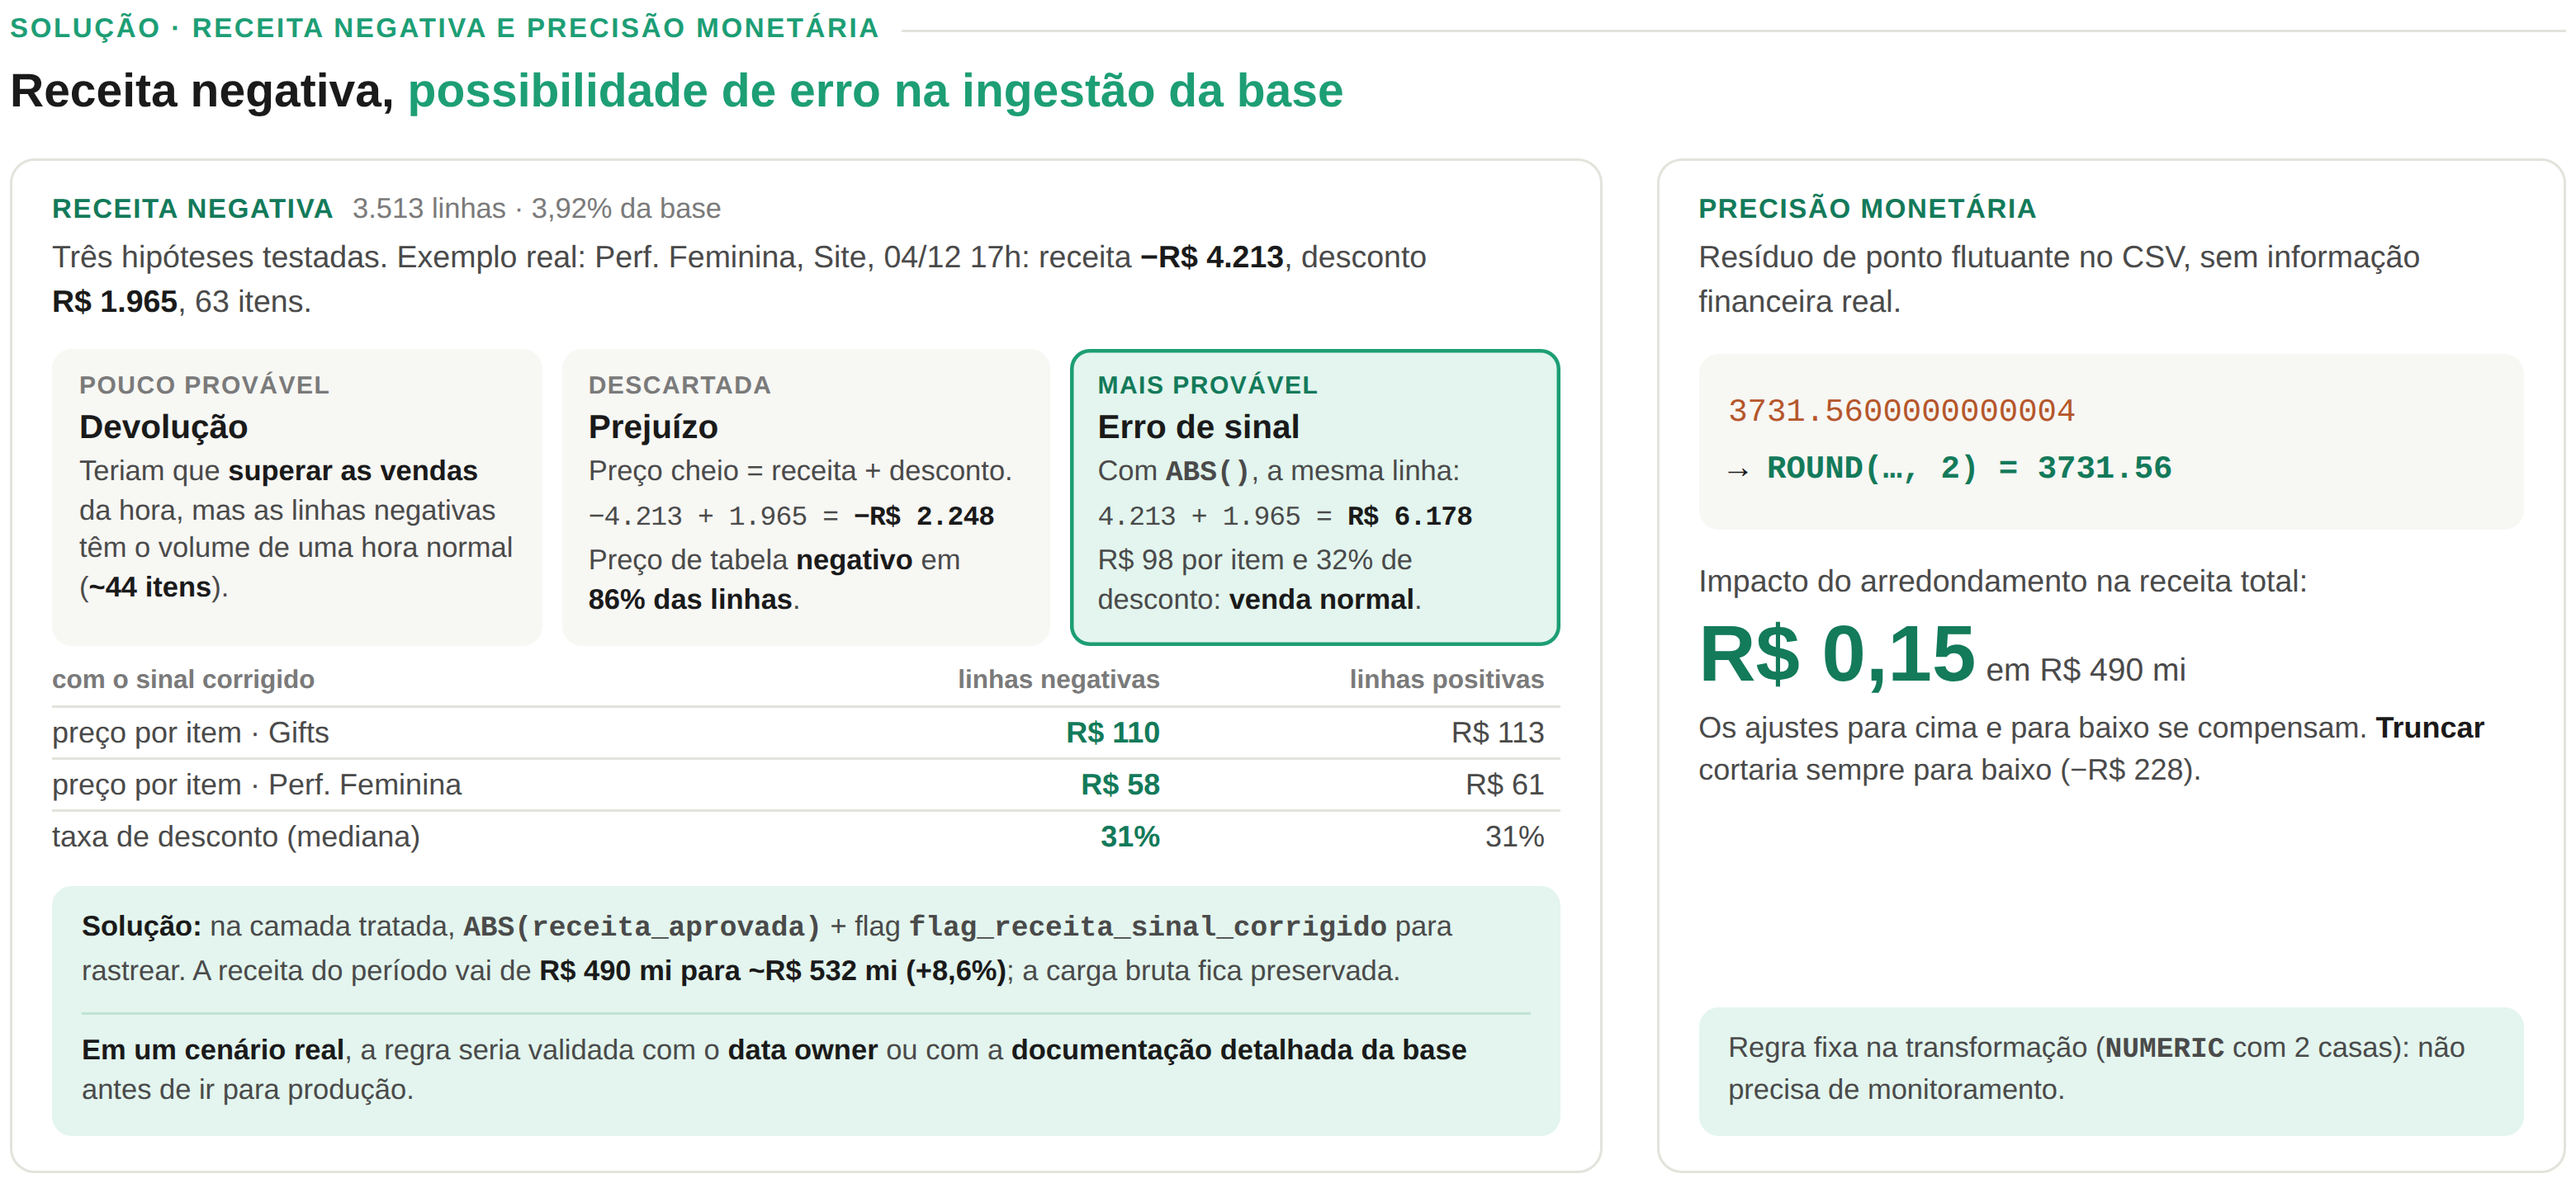
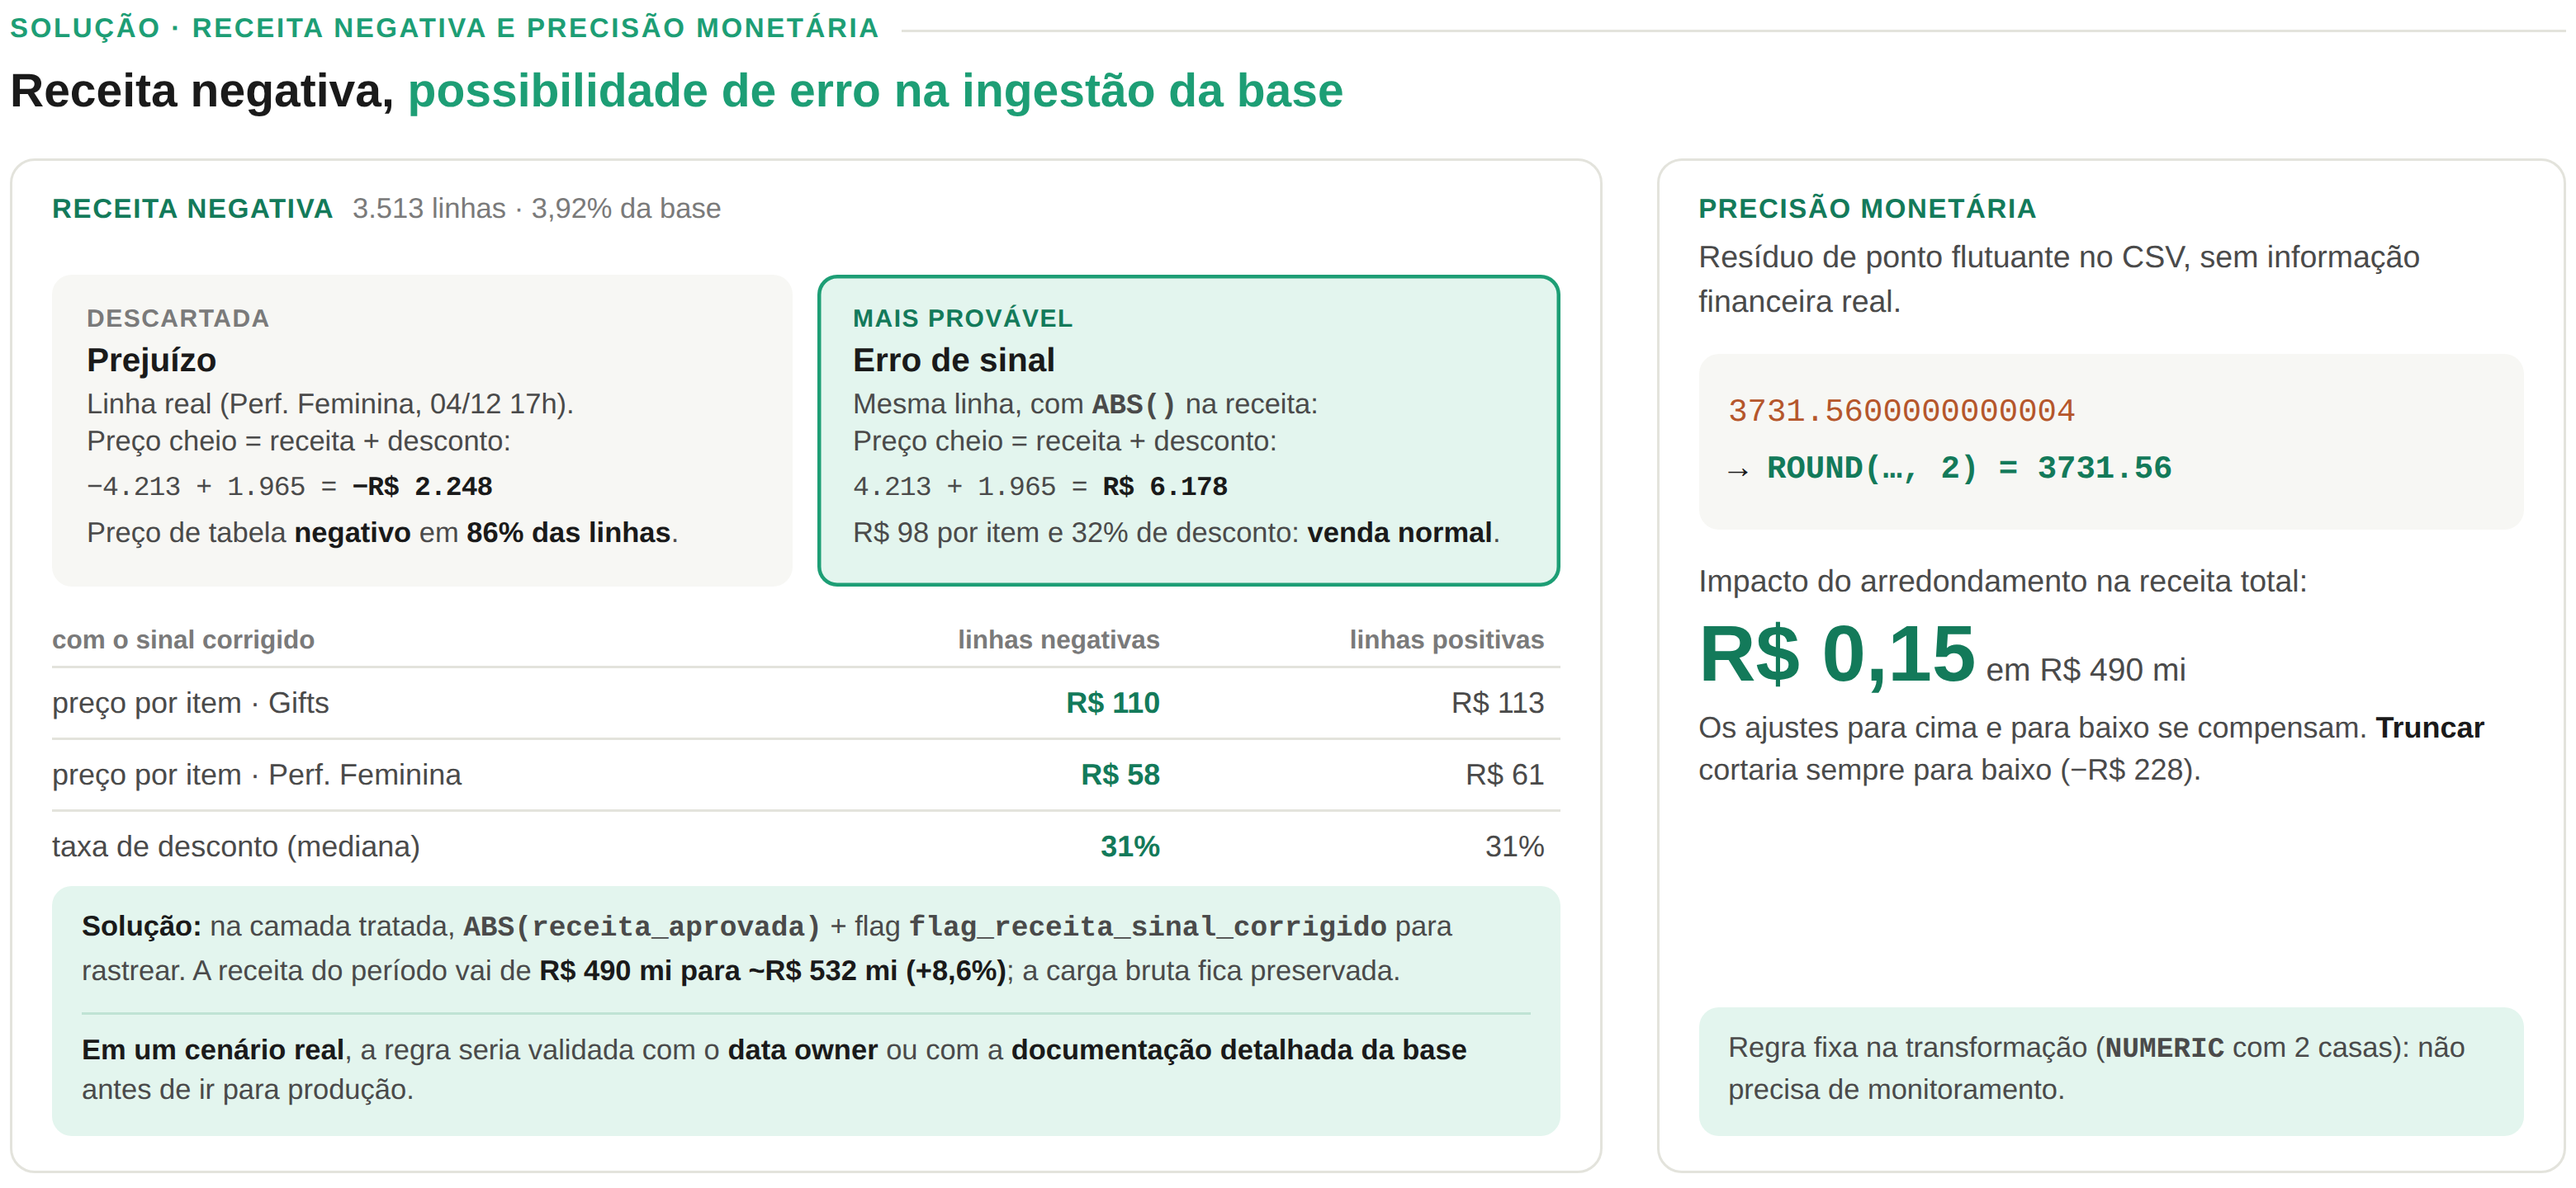
Widget receita negativa: só prejuízo e erro de sinal, sem texto de abertura
Claude-Session: https://claude.ai/code/session_01NUJZKTcM8cs9QBTcUeuacF

Changed region(s): [[0.0, 0.1875, 0.6218, 0.7188]]

diff --git a/apresentacao/widgets/09_receita_precisao.html b/apresentacao/widgets/09_receita_precisao.html
@@ -22,8 +22,8 @@
   .txt b { color: var(--tinta); }
   code { font-family: "Courier New", monospace; font-weight: 700; }
 
-  .hip { display: grid; grid-template-columns: 1fr 1fr 1fr; gap: 8px; margin: 10px 0 8px; }
-  .h { border-radius: 8px; padding: 10px 11px; background: #f7f7f4; }
+  .hip { display: grid; grid-template-columns: 1fr 1fr; gap: 10px; margin: 16px 0 16px; }
+  .h { border-radius: 8px; padding: 13px 14px; background: #f7f7f4; }
   .h.sim { background: var(--verde-claro); box-shadow: inset 0 0 0 1.5px var(--verde); }
   .h .sel { font-size: 10px; font-weight: 700; text-transform: uppercase; letter-spacing: .05em; color: var(--tinta-3); }
   .h.sim .sel { color: var(--verde-escuro); }
@@ -38,7 +38,7 @@
   .comp { width: 100%; border-collapse: collapse; font-size: 12px; }
   .comp th { text-align: right; font-size: 10.5px; color: var(--tinta-3); padding: 0 6px 4px; font-weight: 700; }
   .comp th:first-child, .comp td:first-child { text-align: left; padding-left: 0; }
-  .comp td { padding: 3px 6px; border-top: 1px solid var(--linha); text-align: right; color: var(--tinta-2); }
+  .comp td { padding: 7px 6px; border-top: 1px solid var(--linha); text-align: right; color: var(--tinta-2); }
   .comp td.n { color: var(--verde-escuro); font-weight: 700; }
 
   .acao { margin-top: auto; background: var(--verde-claro); border-radius: 8px; padding: 9px 12px; font-size: 11.5px; color: var(--tinta-2); line-height: 1.45; }
@@ -60,11 +60,9 @@
   <div class="colunas">
     <div class="bloco">
       <div class="tit">Receita negativa <small>3.513 linhas · 3,92% da base</small></div>
-      <div class="txt">Três hipóteses testadas. Exemplo real: Perf. Feminina, Site, 04/12 17h: receita <b>−R$&nbsp;4.213</b>, desconto <b>R$&nbsp;1.965</b>, 63 itens.</div>
       <div class="hip">
-        <div class="h"><div class="sel">Pouco provável</div><h4>Devolução</h4><p>Teriam que <b>superar as vendas</b> da hora, mas as linhas negativas têm o volume de uma hora normal (<b>~44 itens</b>).</p></div>
-        <div class="h"><div class="sel">Descartada</div><h4>Prejuízo</h4><p>Preço cheio = receita + desconto.<br><span class="ex">−4.213 + 1.965 = <b>−R$&nbsp;2.248</b></span><br>Preço de tabela <b>negativo</b> em <b>86% das linhas</b>.</p></div>
-        <div class="h sim"><div class="sel">Mais provável</div><h4>Erro de sinal</h4><p>Com <code>ABS()</code>, a mesma linha:<br><span class="ex">4.213 + 1.965 = <b>R$&nbsp;6.178</b></span><br>R$ 98 por item e 32% de desconto: <b>venda normal</b>.</p></div>
+        <div class="h"><div class="sel">Descartada</div><h4>Prejuízo</h4><p>Linha real (Perf. Feminina, 04/12 17h).<br>Preço cheio = receita + desconto:<br><span class="ex">−4.213 + 1.965 = <b>−R$&nbsp;2.248</b></span><br>Preço de tabela <b>negativo</b> em <b>86% das linhas</b>.</p></div>
+        <div class="h sim"><div class="sel">Mais provável</div><h4>Erro de sinal</h4><p>Mesma linha, com <code>ABS()</code> na receita:<br>Preço cheio = receita + desconto:<br><span class="ex">4.213 + 1.965 = <b>R$&nbsp;6.178</b></span><br>R$ 98 por item e 32% de desconto: <b>venda normal</b>.</p></div>
       </div>
       <table class="comp">
         <tr><th>com o sinal corrigido</th><th>linhas negativas</th><th>linhas positivas</th></tr>
